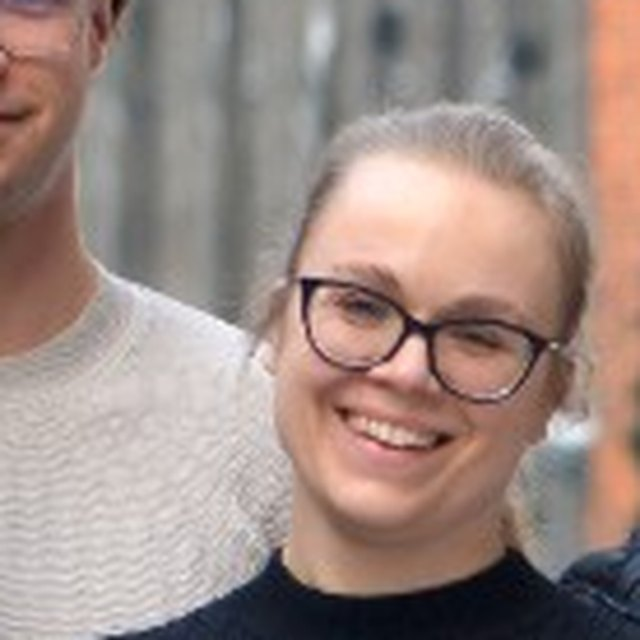
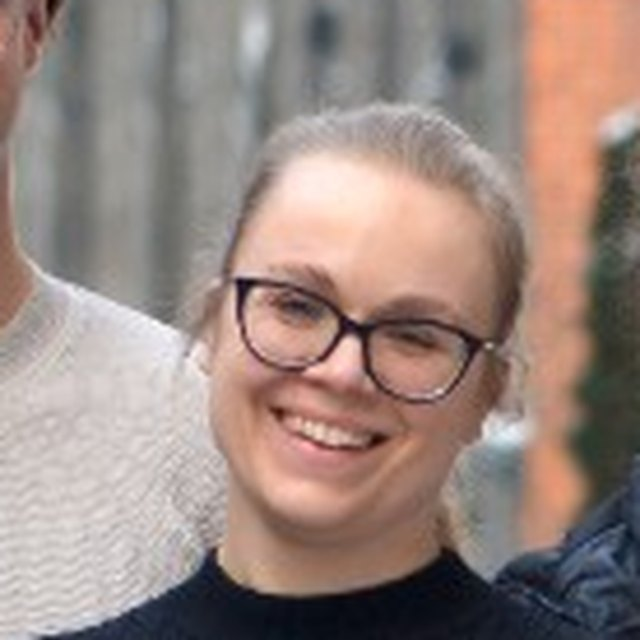
Shift Gracja and Aleksandra left in their portraits.

diff --git a/zespol.html b/zespol.html
@@ -65,7 +65,7 @@
   </header>
   <nav class="crumbs" aria-label="Ścieżka"><div class="wrap"><ol><li><a href="index.html">LIGHT</a></li><li>Zespół</li></ol></div></nav>
   <div class="wrap page-title"><h1>Zespół</h1></div>
-  <div class="wrap"><article class="prose" id="tresc"><ul class="team-list"><li class="team-card"><img class="avatar" src="img/team/justyna-martyniuk-peczek.jpg" alt=""><div><h2><a href="https://pg.edu.pl/p/justyna-martyniuk-peczek-19369">prof. dr hab. inż. arch. Justyna Martyniuk-Pęczek</a></h2><p class="role">kierownik projektu</p><p class="org">Politechnika Gdańska</p></div></li><li class="team-card"><img class="avatar" src="img/team/marie-claude-dubois.jpg" alt=""><div><h2><a href="https://portal.research.lu.se/en/persons/marie-claude-dubois/">prof. dr inż. Marie-Claude Dubois</a></h2><p class="org">Uniwersytet w Lund</p></div></li><li class="team-card"><span class="avatar" aria-hidden="true">NG</span><div><h2><a href="https://portal.research.lu.se/en/persons/niko-gentile/">dr inż. Niko Gentile</a></h2><p class="org">Uniwersytet w Lund</p></div></li><li class="team-card"><span class="avatar" aria-hidden="true">KK</span><div><h2><a href="https://pg.edu.pl/p/karolina-krosnicka-405355">dr hab. inż. arch. Karolina Krośnicka</a></h2><p class="org">Politechnika Gdańska</p></div></li><li class="team-card"><img class="avatar" src="img/team/jerome-kampf.jpg" alt=""><div><h2><a href="https://www.idiap.ch/~jkaempf/">prof. dr inż. Jérôme Kämpf</a></h2><p class="org">Idiap Research Institute</p></div></li><li class="team-card"><span class="avatar" aria-hidden="true">IM</span><div><h2><a href="https://pg.edu.pl/p/izabela-mironowicz-880097">dr hab. inż. arch. Izabela Mironowicz</a></h2><p class="org">Politechnika Gdańska</p></div></li><li class="team-card"><img class="avatar" src="img/team/maciej-tankiewicz.jpg" alt=""><div><h2><a href="https://informator.gumed.edu.pl/259">dr hab. inż. Maciej Tankiewicz</a></h2><p class="org">Gdański Uniwersytet Medyczny</p></div></li><li class="team-card"><img class="avatar" src="img/team/david-geisler-moroder.jpg" alt=""><div><h2><a href="https://www.uibk.ac.at/en/energy-efficient-building/about-us/staff/david-geisler-moroder/">dr inż. David Geisler-Moroder</a></h2><p class="org">Uniwersytet w Innsbrucku</p></div></li><li class="team-card"><img class="avatar" src="img/team/natalia-sokol.jpg" alt=""><div><h2><a href="https://pg.edu.pl/p/natalia-sokol-944955">dr inż. Natalia Sokół</a></h2><p class="org">Politechnika Gdańska</p></div></li><li class="team-card"><img class="avatar" src="img/team/roman-ruczynski.jpg" alt=""><div><h2><a href="https://pg.edu.pl/p/roman-ruczynski-8644">dr inż. arch. Roman Ruczyński</a></h2><p class="org">Politechnika Gdańska</p></div></li><li class="team-card"><img class="avatar" src="img/team/nikodem-derengowski.jpg" alt=""><div><h2><a href="https://orcid.org/0009-0001-9071-8010">dr inż. Nikodem Derengowski</a></h2><p class="org">Politechnika Gdańska</p></div></li><li class="team-card"><span class="avatar" aria-hidden="true">AZ</span><div><h2><a href="https://pg.edu.pl/p/anna-zackiewicz-1298558">mgr inż. Anna Zackiewicz</a></h2><p class="org">Politechnika Gdańska</p></div></li><li class="team-card"><img class="avatar" src="img/team/anna-wojewnik-filipkowska.jpg" alt=""><div><h2><a href="https://sd.ug.edu.pl/node/791">dr hab. Anna Wojewnik-Filipkowska</a></h2><p class="org">Uniwersytet Gdański</p></div></li><li class="team-card"><img class="avatar" src="img/team/agnieszka-fiszka-borzyszkowska.jpg?v=2" alt=""><div><h2><a href="https://informator.gumed.edu.pl/259e">dr inż. Agnieszka Fiszka Borzyszkowska</a></h2><p class="org">Gdański Uniwersytet Medyczny</p></div></li><li class="team-card"><img class="avatar" src="img/team/monika-cieszynska-semenowicz.jpg?v=2" alt=""><div><h2><a href="https://informator.gumed.edu.pl/259e">dr Monika Cieszyńska-Semenowicz</a></h2><p class="org">Gdański Uniwersytet Medyczny</p></div></li><li class="team-card"><img class="avatar" src="img/team/aleksandra-dydecka.jpg?v=2" alt=""><div><h2><a href="https://informator.gumed.edu.pl/259e">dr Aleksandra Dydecka</a></h2><p class="org">Gdański Uniwersytet Medyczny</p></div></li><li class="team-card"><img class="avatar" src="img/team/aleksandra-koszarek-cyra.jpg" alt=""><div><h2><a href="https://old.wzr.ug.edu.pl/wydzial/index.php?prac=845&str=121">dr inż. Aleksandra Koszarek-Cyra</a></h2><p class="org">Uniwersytet Gdański</p></div></li><li class="team-card"><img class="avatar" src="img/team/olga-martyniuk.jpg" alt=""><div><h2><a href="https://repozytorium.bg.ug.edu.pl/info/author/UOG445c047d26c8486ba9cb9ef938330fe3/">dr Olga Martyniuk</a></h2><p class="org">Uniwersytet Gdański</p></div></li><li class="team-card"><span class="avatar" aria-hidden="true">WM</span><div><h2><a href="https://pg.edu.pl/p/weronika-mazurkiewicz-163163">dr inż. arch. Weronika Maria Mazurkiewicz</a></h2><p class="org">Politechnika Gdańska</p></div></li><li class="team-card"><img class="avatar" src="img/team/dubon-rodrigue.jpg" alt=""><div><h2><a href="https://www.idiap.ch/en/people/dubon-rodrigue-2064">dr inż. Dubon Rodrigue</a></h2><p class="org">Idiap Research Institute</p></div></li><li class="team-card"><img class="avatar" src="img/team/gracja-topka-bielecka.jpg?v=2" alt=""><div><h2><a href="https://informator.gumed.edu.pl/259e">dr Gracja Topka-Bielecka</a></h2><p class="org">Gdański Uniwersytet Medyczny</p></div></li><li class="team-card"><span class="avatar" aria-hidden="true">BZ</span><div><h2><a href="https://pg.edu.pl/p/barbara-zgorska-480266">dr inż. arch. Barbara Zgórska</a></h2><p class="org">Politechnika Gdańska</p></div></li><li class="team-card"><img class="avatar" src="img/team/przemyslaw-kluz.jpg" alt=""><div><h2><a href="https://www.kongresobywatelski.pl/osoby/kluz-przemyslaw/">Przemysław Kluz</a></h2><p class="org">Gdańska Fundacja Innowacji Społecznych</p></div></li><li class="team-card"><img class="avatar" src="img/team/natalia-lekner.jpg" alt=""><div><h2><a href="https://kartuzy.pl/">Natalia Lekner</a></h2><p class="org">Gmina Kartuzy</p></div></li><li class="team-card"><img class="avatar" src="img/team/karol-niciejewski.jpg?v=2" alt=""><div><h2><a href="https://gumed.edu.pl/">Karol Niciejewski</a></h2><p class="org">Gdański Uniwersytet Medyczny</p></div></li><li class="team-card"><span class="avatar" aria-hidden="true">EP</span><div><h2><a href="https://gfis.pl/">Ewa Patyk</a></h2><p class="org">Gdańska Fundacja Innowacji Społecznych</p></div></li><li class="team-card"><img class="avatar" src="img/team/aleksandra-szewczyk.jpg" alt=""><div><h2><a href="https://foton-oze.pl/zespol/">mgr inż. Aleksandra Szewczyk</a></h2><p class="org">Foton-OZE</p></div></li></ul><p class="note">Lista może się jeszcze powiększyć. Kolejne osoby dopiszemy razem ze zdjęciem i instytucją.</p></article></div>
+  <div class="wrap"><article class="prose" id="tresc"><ul class="team-list"><li class="team-card"><img class="avatar" src="img/team/justyna-martyniuk-peczek.jpg" alt=""><div><h2><a href="https://pg.edu.pl/p/justyna-martyniuk-peczek-19369">prof. dr hab. inż. arch. Justyna Martyniuk-Pęczek</a></h2><p class="role">kierownik projektu</p><p class="org">Politechnika Gdańska</p></div></li><li class="team-card"><img class="avatar" src="img/team/marie-claude-dubois.jpg" alt=""><div><h2><a href="https://portal.research.lu.se/en/persons/marie-claude-dubois/">prof. dr inż. Marie-Claude Dubois</a></h2><p class="org">Uniwersytet w Lund</p></div></li><li class="team-card"><span class="avatar" aria-hidden="true">NG</span><div><h2><a href="https://portal.research.lu.se/en/persons/niko-gentile/">dr inż. Niko Gentile</a></h2><p class="org">Uniwersytet w Lund</p></div></li><li class="team-card"><span class="avatar" aria-hidden="true">KK</span><div><h2><a href="https://pg.edu.pl/p/karolina-krosnicka-405355">dr hab. inż. arch. Karolina Krośnicka</a></h2><p class="org">Politechnika Gdańska</p></div></li><li class="team-card"><img class="avatar" src="img/team/jerome-kampf.jpg" alt=""><div><h2><a href="https://www.idiap.ch/~jkaempf/">prof. dr inż. Jérôme Kämpf</a></h2><p class="org">Idiap Research Institute</p></div></li><li class="team-card"><span class="avatar" aria-hidden="true">IM</span><div><h2><a href="https://pg.edu.pl/p/izabela-mironowicz-880097">dr hab. inż. arch. Izabela Mironowicz</a></h2><p class="org">Politechnika Gdańska</p></div></li><li class="team-card"><img class="avatar" src="img/team/maciej-tankiewicz.jpg" alt=""><div><h2><a href="https://informator.gumed.edu.pl/259">dr hab. inż. Maciej Tankiewicz</a></h2><p class="org">Gdański Uniwersytet Medyczny</p></div></li><li class="team-card"><img class="avatar" src="img/team/david-geisler-moroder.jpg" alt=""><div><h2><a href="https://www.uibk.ac.at/en/energy-efficient-building/about-us/staff/david-geisler-moroder/">dr inż. David Geisler-Moroder</a></h2><p class="org">Uniwersytet w Innsbrucku</p></div></li><li class="team-card"><img class="avatar" src="img/team/natalia-sokol.jpg" alt=""><div><h2><a href="https://pg.edu.pl/p/natalia-sokol-944955">dr inż. Natalia Sokół</a></h2><p class="org">Politechnika Gdańska</p></div></li><li class="team-card"><img class="avatar" src="img/team/roman-ruczynski.jpg" alt=""><div><h2><a href="https://pg.edu.pl/p/roman-ruczynski-8644">dr inż. arch. Roman Ruczyński</a></h2><p class="org">Politechnika Gdańska</p></div></li><li class="team-card"><img class="avatar" src="img/team/nikodem-derengowski.jpg" alt=""><div><h2><a href="https://orcid.org/0009-0001-9071-8010">dr inż. Nikodem Derengowski</a></h2><p class="org">Politechnika Gdańska</p></div></li><li class="team-card"><span class="avatar" aria-hidden="true">AZ</span><div><h2><a href="https://pg.edu.pl/p/anna-zackiewicz-1298558">mgr inż. Anna Zackiewicz</a></h2><p class="org">Politechnika Gdańska</p></div></li><li class="team-card"><img class="avatar" src="img/team/anna-wojewnik-filipkowska.jpg" alt=""><div><h2><a href="https://sd.ug.edu.pl/node/791">dr hab. Anna Wojewnik-Filipkowska</a></h2><p class="org">Uniwersytet Gdański</p></div></li><li class="team-card"><img class="avatar" src="img/team/agnieszka-fiszka-borzyszkowska.jpg?v=2" alt=""><div><h2><a href="https://informator.gumed.edu.pl/259e">dr inż. Agnieszka Fiszka Borzyszkowska</a></h2><p class="org">Gdański Uniwersytet Medyczny</p></div></li><li class="team-card"><img class="avatar" src="img/team/monika-cieszynska-semenowicz.jpg?v=2" alt=""><div><h2><a href="https://informator.gumed.edu.pl/259e">dr Monika Cieszyńska-Semenowicz</a></h2><p class="org">Gdański Uniwersytet Medyczny</p></div></li><li class="team-card"><img class="avatar" src="img/team/aleksandra-dydecka.jpg?v=3" alt=""><div><h2><a href="https://informator.gumed.edu.pl/259e">dr Aleksandra Dydecka</a></h2><p class="org">Gdański Uniwersytet Medyczny</p></div></li><li class="team-card"><img class="avatar" src="img/team/aleksandra-koszarek-cyra.jpg" alt=""><div><h2><a href="https://old.wzr.ug.edu.pl/wydzial/index.php?prac=845&str=121">dr inż. Aleksandra Koszarek-Cyra</a></h2><p class="org">Uniwersytet Gdański</p></div></li><li class="team-card"><img class="avatar" src="img/team/olga-martyniuk.jpg" alt=""><div><h2><a href="https://repozytorium.bg.ug.edu.pl/info/author/UOG445c047d26c8486ba9cb9ef938330fe3/">dr Olga Martyniuk</a></h2><p class="org">Uniwersytet Gdański</p></div></li><li class="team-card"><span class="avatar" aria-hidden="true">WM</span><div><h2><a href="https://pg.edu.pl/p/weronika-mazurkiewicz-163163">dr inż. arch. Weronika Maria Mazurkiewicz</a></h2><p class="org">Politechnika Gdańska</p></div></li><li class="team-card"><img class="avatar" src="img/team/dubon-rodrigue.jpg" alt=""><div><h2><a href="https://www.idiap.ch/en/people/dubon-rodrigue-2064">dr inż. Dubon Rodrigue</a></h2><p class="org">Idiap Research Institute</p></div></li><li class="team-card"><img class="avatar" src="img/team/gracja-topka-bielecka.jpg?v=3" alt=""><div><h2><a href="https://informator.gumed.edu.pl/259e">dr Gracja Topka-Bielecka</a></h2><p class="org">Gdański Uniwersytet Medyczny</p></div></li><li class="team-card"><span class="avatar" aria-hidden="true">BZ</span><div><h2><a href="https://pg.edu.pl/p/barbara-zgorska-480266">dr inż. arch. Barbara Zgórska</a></h2><p class="org">Politechnika Gdańska</p></div></li><li class="team-card"><img class="avatar" src="img/team/przemyslaw-kluz.jpg" alt=""><div><h2><a href="https://www.kongresobywatelski.pl/osoby/kluz-przemyslaw/">Przemysław Kluz</a></h2><p class="org">Gdańska Fundacja Innowacji Społecznych</p></div></li><li class="team-card"><img class="avatar" src="img/team/natalia-lekner.jpg" alt=""><div><h2><a href="https://kartuzy.pl/">Natalia Lekner</a></h2><p class="org">Gmina Kartuzy</p></div></li><li class="team-card"><img class="avatar" src="img/team/karol-niciejewski.jpg?v=2" alt=""><div><h2><a href="https://gumed.edu.pl/">Karol Niciejewski</a></h2><p class="org">Gdański Uniwersytet Medyczny</p></div></li><li class="team-card"><span class="avatar" aria-hidden="true">EP</span><div><h2><a href="https://gfis.pl/">Ewa Patyk</a></h2><p class="org">Gdańska Fundacja Innowacji Społecznych</p></div></li><li class="team-card"><img class="avatar" src="img/team/aleksandra-szewczyk.jpg" alt=""><div><h2><a href="https://foton-oze.pl/zespol/">mgr inż. Aleksandra Szewczyk</a></h2><p class="org">Foton-OZE</p></div></li></ul><p class="note">Lista może się jeszcze powiększyć. Kolejne osoby dopiszemy razem ze zdjęciem i instytucją.</p></article></div>
   <footer class="site-footer"><div class="wrap footer-grid">
         <div><h2>LIGHT</h2><p>Looking for Integrated Solutions for Healthy PEDs</p><p>Projekt koordynowany przez Politechnikę Gdańską.</p></div>
         <div><h2>Kontakt</h2><p>prof. dr hab. inż. arch. Justyna Martyniuk-Pęczek</p><p><a href="mailto:juspecze@pg.edu.pl">juspecze@pg.edu.pl</a></p><p>ul. Gabriela Narutowicza 11/12<br>80-233 Gdańsk</p></div>

diff --git a/en/team.html b/en/team.html
@@ -65,7 +65,7 @@
   </header>
   <nav class="crumbs" aria-label="Breadcrumb"><div class="wrap"><ol><li><a href="../en/index.html">LIGHT</a></li><li>Team</li></ol></div></nav>
   <div class="wrap page-title"><h1>Team</h1></div>
-  <div class="wrap"><article class="prose" id="tresc"><ul class="team-list"><li class="team-card"><img class="avatar" src="../img/team/justyna-martyniuk-peczek.jpg" alt=""><div><h2><a href="https://pg.edu.pl/p/justyna-martyniuk-peczek-19369">Prof. Justyna Martyniuk-Pęczek</a></h2><p class="role">Project leader</p><p class="org">Gdańsk University of Technology</p></div></li><li class="team-card"><img class="avatar" src="../img/team/marie-claude-dubois.jpg" alt=""><div><h2><a href="https://portal.research.lu.se/en/persons/marie-claude-dubois/">Prof. Marie-Claude Dubois</a></h2><p class="org">Lund University</p></div></li><li class="team-card"><span class="avatar" aria-hidden="true">NG</span><div><h2><a href="https://portal.research.lu.se/en/persons/niko-gentile/">Prof. Niko Gentile</a></h2><p class="org">Lund University</p></div></li><li class="team-card"><span class="avatar" aria-hidden="true">KK</span><div><h2><a href="https://pg.edu.pl/p/karolina-krosnicka-405355">Prof. Karolina Krośnicka</a></h2><p class="org">Gdańsk University of Technology</p></div></li><li class="team-card"><img class="avatar" src="../img/team/jerome-kampf.jpg" alt=""><div><h2><a href="https://www.idiap.ch/~jkaempf/">Prof. Jérôme Kämpf</a></h2><p class="org">Idiap Research Institute</p></div></li><li class="team-card"><span class="avatar" aria-hidden="true">IM</span><div><h2><a href="https://pg.edu.pl/p/izabela-mironowicz-880097">Prof. Izabela Mironowicz</a></h2><p class="org">Gdańsk University of Technology</p></div></li><li class="team-card"><img class="avatar" src="../img/team/maciej-tankiewicz.jpg" alt=""><div><h2><a href="https://informator.gumed.edu.pl/259">Prof. Maciej Tankiewicz</a></h2><p class="org">Medical University of Gdańsk</p></div></li><li class="team-card"><img class="avatar" src="../img/team/david-geisler-moroder.jpg" alt=""><div><h2><a href="https://www.uibk.ac.at/en/energy-efficient-building/about-us/staff/david-geisler-moroder/">Dr. David Geisler-Moroder</a></h2><p class="org">Universität Innsbruck</p></div></li><li class="team-card"><img class="avatar" src="../img/team/natalia-sokol.jpg" alt=""><div><h2><a href="https://pg.edu.pl/p/natalia-sokol-944955">Dr. Natalia Sokół</a></h2><p class="org">Gdańsk University of Technology</p></div></li><li class="team-card"><img class="avatar" src="../img/team/roman-ruczynski.jpg" alt=""><div><h2><a href="https://pg.edu.pl/p/roman-ruczynski-8644">Dr. Roman Ruczyński</a></h2><p class="org">Gdańsk University of Technology</p></div></li><li class="team-card"><img class="avatar" src="../img/team/nikodem-derengowski.jpg" alt=""><div><h2><a href="https://orcid.org/0009-0001-9071-8010">Dr. Nikodem Derengowski</a></h2><p class="org">Gdańsk University of Technology</p></div></li><li class="team-card"><span class="avatar" aria-hidden="true">AZ</span><div><h2><a href="https://pg.edu.pl/p/anna-zackiewicz-1298558">Anna Zackiewicz</a></h2><p class="org">Gdańsk University of Technology</p></div></li><li class="team-card"><img class="avatar" src="../img/team/anna-wojewnik-filipkowska.jpg" alt=""><div><h2><a href="https://sd.ug.edu.pl/node/791">Dr. Anna Wojewnik-Filipkowska</a></h2><p class="org">University of Gdańsk</p></div></li><li class="team-card"><img class="avatar" src="../img/team/agnieszka-fiszka-borzyszkowska.jpg?v=2" alt=""><div><h2><a href="https://informator.gumed.edu.pl/259e">Dr. Agnieszka Fiszka Borzyszkowska</a></h2><p class="org">Medical University of Gdańsk</p></div></li><li class="team-card"><img class="avatar" src="../img/team/monika-cieszynska-semenowicz.jpg?v=2" alt=""><div><h2><a href="https://informator.gumed.edu.pl/259e">Dr. Monika Cieszyńska-Semenowicz</a></h2><p class="org">Medical University of Gdańsk</p></div></li><li class="team-card"><img class="avatar" src="../img/team/aleksandra-dydecka.jpg?v=2" alt=""><div><h2><a href="https://informator.gumed.edu.pl/259e">Dr. Aleksandra Dydecka</a></h2><p class="org">Medical University of Gdańsk</p></div></li><li class="team-card"><img class="avatar" src="../img/team/aleksandra-koszarek-cyra.jpg" alt=""><div><h2><a href="https://old.wzr.ug.edu.pl/wydzial/index.php?prac=845&str=121">Dr. Aleksandra Koszarek-Cyra</a></h2><p class="org">University of Gdańsk</p></div></li><li class="team-card"><img class="avatar" src="../img/team/olga-martyniuk.jpg" alt=""><div><h2><a href="https://repozytorium.bg.ug.edu.pl/info/author/UOG445c047d26c8486ba9cb9ef938330fe3/">Dr. Olga Martyniuk</a></h2><p class="org">University of Gdańsk</p></div></li><li class="team-card"><span class="avatar" aria-hidden="true">WM</span><div><h2><a href="https://pg.edu.pl/p/weronika-mazurkiewicz-163163">Dr. Weronika Maria Mazurkiewicz</a></h2><p class="org">Gdańsk University of Technology</p></div></li><li class="team-card"><img class="avatar" src="../img/team/dubon-rodrigue.jpg" alt=""><div><h2><a href="https://www.idiap.ch/en/people/dubon-rodrigue-2064">Dr. Dubon Rodrigue</a></h2><p class="org">Idiap Research Institute</p></div></li><li class="team-card"><img class="avatar" src="../img/team/gracja-topka-bielecka.jpg?v=2" alt=""><div><h2><a href="https://informator.gumed.edu.pl/259e">Dr. Gracja Topka-Bielecka</a></h2><p class="org">Medical University of Gdańsk</p></div></li><li class="team-card"><span class="avatar" aria-hidden="true">BZ</span><div><h2><a href="https://pg.edu.pl/p/barbara-zgorska-480266">Dr. Barbara Zgórska</a></h2><p class="org">Gdańsk University of Technology</p></div></li><li class="team-card"><img class="avatar" src="../img/team/przemyslaw-kluz.jpg" alt=""><div><h2><a href="https://www.kongresobywatelski.pl/osoby/kluz-przemyslaw/">Przemysław Kluz</a></h2><p class="org">Gdańsk Foundation for Social Innovation</p></div></li><li class="team-card"><img class="avatar" src="../img/team/natalia-lekner.jpg" alt=""><div><h2><a href="https://kartuzy.pl/">Natalia Lekner</a></h2><p class="org">Municipality of Kartuzy</p></div></li><li class="team-card"><img class="avatar" src="../img/team/karol-niciejewski.jpg?v=2" alt=""><div><h2><a href="https://gumed.edu.pl/">Karol Niciejewski</a></h2><p class="org">Medical University of Gdańsk</p></div></li><li class="team-card"><span class="avatar" aria-hidden="true">EP</span><div><h2><a href="https://gfis.pl/">Ewa Patyk</a></h2><p class="org">Gdańsk Foundation for Social Innovation</p></div></li><li class="team-card"><img class="avatar" src="../img/team/aleksandra-szewczyk.jpg" alt=""><div><h2><a href="https://foton-oze.pl/zespol/">Aleksandra Szewczyk</a></h2><p class="org">Foton-OZE</p></div></li></ul><p class="note">The list can still grow. Further people will be added with a photo and an organisation.</p></article></div>
+  <div class="wrap"><article class="prose" id="tresc"><ul class="team-list"><li class="team-card"><img class="avatar" src="../img/team/justyna-martyniuk-peczek.jpg" alt=""><div><h2><a href="https://pg.edu.pl/p/justyna-martyniuk-peczek-19369">Prof. Justyna Martyniuk-Pęczek</a></h2><p class="role">Project leader</p><p class="org">Gdańsk University of Technology</p></div></li><li class="team-card"><img class="avatar" src="../img/team/marie-claude-dubois.jpg" alt=""><div><h2><a href="https://portal.research.lu.se/en/persons/marie-claude-dubois/">Prof. Marie-Claude Dubois</a></h2><p class="org">Lund University</p></div></li><li class="team-card"><span class="avatar" aria-hidden="true">NG</span><div><h2><a href="https://portal.research.lu.se/en/persons/niko-gentile/">Prof. Niko Gentile</a></h2><p class="org">Lund University</p></div></li><li class="team-card"><span class="avatar" aria-hidden="true">KK</span><div><h2><a href="https://pg.edu.pl/p/karolina-krosnicka-405355">Prof. Karolina Krośnicka</a></h2><p class="org">Gdańsk University of Technology</p></div></li><li class="team-card"><img class="avatar" src="../img/team/jerome-kampf.jpg" alt=""><div><h2><a href="https://www.idiap.ch/~jkaempf/">Prof. Jérôme Kämpf</a></h2><p class="org">Idiap Research Institute</p></div></li><li class="team-card"><span class="avatar" aria-hidden="true">IM</span><div><h2><a href="https://pg.edu.pl/p/izabela-mironowicz-880097">Prof. Izabela Mironowicz</a></h2><p class="org">Gdańsk University of Technology</p></div></li><li class="team-card"><img class="avatar" src="../img/team/maciej-tankiewicz.jpg" alt=""><div><h2><a href="https://informator.gumed.edu.pl/259">Prof. Maciej Tankiewicz</a></h2><p class="org">Medical University of Gdańsk</p></div></li><li class="team-card"><img class="avatar" src="../img/team/david-geisler-moroder.jpg" alt=""><div><h2><a href="https://www.uibk.ac.at/en/energy-efficient-building/about-us/staff/david-geisler-moroder/">Dr. David Geisler-Moroder</a></h2><p class="org">Universität Innsbruck</p></div></li><li class="team-card"><img class="avatar" src="../img/team/natalia-sokol.jpg" alt=""><div><h2><a href="https://pg.edu.pl/p/natalia-sokol-944955">Dr. Natalia Sokół</a></h2><p class="org">Gdańsk University of Technology</p></div></li><li class="team-card"><img class="avatar" src="../img/team/roman-ruczynski.jpg" alt=""><div><h2><a href="https://pg.edu.pl/p/roman-ruczynski-8644">Dr. Roman Ruczyński</a></h2><p class="org">Gdańsk University of Technology</p></div></li><li class="team-card"><img class="avatar" src="../img/team/nikodem-derengowski.jpg" alt=""><div><h2><a href="https://orcid.org/0009-0001-9071-8010">Dr. Nikodem Derengowski</a></h2><p class="org">Gdańsk University of Technology</p></div></li><li class="team-card"><span class="avatar" aria-hidden="true">AZ</span><div><h2><a href="https://pg.edu.pl/p/anna-zackiewicz-1298558">Anna Zackiewicz</a></h2><p class="org">Gdańsk University of Technology</p></div></li><li class="team-card"><img class="avatar" src="../img/team/anna-wojewnik-filipkowska.jpg" alt=""><div><h2><a href="https://sd.ug.edu.pl/node/791">Dr. Anna Wojewnik-Filipkowska</a></h2><p class="org">University of Gdańsk</p></div></li><li class="team-card"><img class="avatar" src="../img/team/agnieszka-fiszka-borzyszkowska.jpg?v=2" alt=""><div><h2><a href="https://informator.gumed.edu.pl/259e">Dr. Agnieszka Fiszka Borzyszkowska</a></h2><p class="org">Medical University of Gdańsk</p></div></li><li class="team-card"><img class="avatar" src="../img/team/monika-cieszynska-semenowicz.jpg?v=2" alt=""><div><h2><a href="https://informator.gumed.edu.pl/259e">Dr. Monika Cieszyńska-Semenowicz</a></h2><p class="org">Medical University of Gdańsk</p></div></li><li class="team-card"><img class="avatar" src="../img/team/aleksandra-dydecka.jpg?v=3" alt=""><div><h2><a href="https://informator.gumed.edu.pl/259e">Dr. Aleksandra Dydecka</a></h2><p class="org">Medical University of Gdańsk</p></div></li><li class="team-card"><img class="avatar" src="../img/team/aleksandra-koszarek-cyra.jpg" alt=""><div><h2><a href="https://old.wzr.ug.edu.pl/wydzial/index.php?prac=845&str=121">Dr. Aleksandra Koszarek-Cyra</a></h2><p class="org">University of Gdańsk</p></div></li><li class="team-card"><img class="avatar" src="../img/team/olga-martyniuk.jpg" alt=""><div><h2><a href="https://repozytorium.bg.ug.edu.pl/info/author/UOG445c047d26c8486ba9cb9ef938330fe3/">Dr. Olga Martyniuk</a></h2><p class="org">University of Gdańsk</p></div></li><li class="team-card"><span class="avatar" aria-hidden="true">WM</span><div><h2><a href="https://pg.edu.pl/p/weronika-mazurkiewicz-163163">Dr. Weronika Maria Mazurkiewicz</a></h2><p class="org">Gdańsk University of Technology</p></div></li><li class="team-card"><img class="avatar" src="../img/team/dubon-rodrigue.jpg" alt=""><div><h2><a href="https://www.idiap.ch/en/people/dubon-rodrigue-2064">Dr. Dubon Rodrigue</a></h2><p class="org">Idiap Research Institute</p></div></li><li class="team-card"><img class="avatar" src="../img/team/gracja-topka-bielecka.jpg?v=3" alt=""><div><h2><a href="https://informator.gumed.edu.pl/259e">Dr. Gracja Topka-Bielecka</a></h2><p class="org">Medical University of Gdańsk</p></div></li><li class="team-card"><span class="avatar" aria-hidden="true">BZ</span><div><h2><a href="https://pg.edu.pl/p/barbara-zgorska-480266">Dr. Barbara Zgórska</a></h2><p class="org">Gdańsk University of Technology</p></div></li><li class="team-card"><img class="avatar" src="../img/team/przemyslaw-kluz.jpg" alt=""><div><h2><a href="https://www.kongresobywatelski.pl/osoby/kluz-przemyslaw/">Przemysław Kluz</a></h2><p class="org">Gdańsk Foundation for Social Innovation</p></div></li><li class="team-card"><img class="avatar" src="../img/team/natalia-lekner.jpg" alt=""><div><h2><a href="https://kartuzy.pl/">Natalia Lekner</a></h2><p class="org">Municipality of Kartuzy</p></div></li><li class="team-card"><img class="avatar" src="../img/team/karol-niciejewski.jpg?v=2" alt=""><div><h2><a href="https://gumed.edu.pl/">Karol Niciejewski</a></h2><p class="org">Medical University of Gdańsk</p></div></li><li class="team-card"><span class="avatar" aria-hidden="true">EP</span><div><h2><a href="https://gfis.pl/">Ewa Patyk</a></h2><p class="org">Gdańsk Foundation for Social Innovation</p></div></li><li class="team-card"><img class="avatar" src="../img/team/aleksandra-szewczyk.jpg" alt=""><div><h2><a href="https://foton-oze.pl/zespol/">Aleksandra Szewczyk</a></h2><p class="org">Foton-OZE</p></div></li></ul><p class="note">The list can still grow. Further people will be added with a photo and an organisation.</p></article></div>
   <footer class="site-footer"><div class="wrap footer-grid">
         <div><h2>LIGHT</h2><p>Looking for Integrated Solutions for Healthy PEDs</p><p>Coordinated by Gdańsk University of Technology.</p></div>
         <div><h2>Contact</h2><p>Prof. Justyna Martyniuk-Pęczek, PhD, DSc, Eng., Arch.</p><p><a href="mailto:juspecze@pg.edu.pl">juspecze@pg.edu.pl</a></p><p>ul. Gabriela Narutowicza 11/12<br>80-233 Gdańsk, Poland</p></div>

diff --git a/_build.py b/_build.py
@@ -1243,7 +1243,7 @@ def team_members():
             "en_org": "Medical University of Gdańsk",
             "pl_role": "",
             "en_role": "",
-            "photo": "img/team/gracja-topka-bielecka.jpg?v=2",
+            "photo": "img/team/gracja-topka-bielecka.jpg?v=3",
             "initials": "GT",
             "url": "https://informator.gumed.edu.pl/259e",
         },
@@ -1254,7 +1254,7 @@ def team_members():
             "en_org": "Medical University of Gdańsk",
             "pl_role": "",
             "en_role": "",
-            "photo": "img/team/aleksandra-dydecka.jpg?v=2",
+            "photo": "img/team/aleksandra-dydecka.jpg?v=3",
             "initials": "AD",
             "url": "https://informator.gumed.edu.pl/259e",
         },
